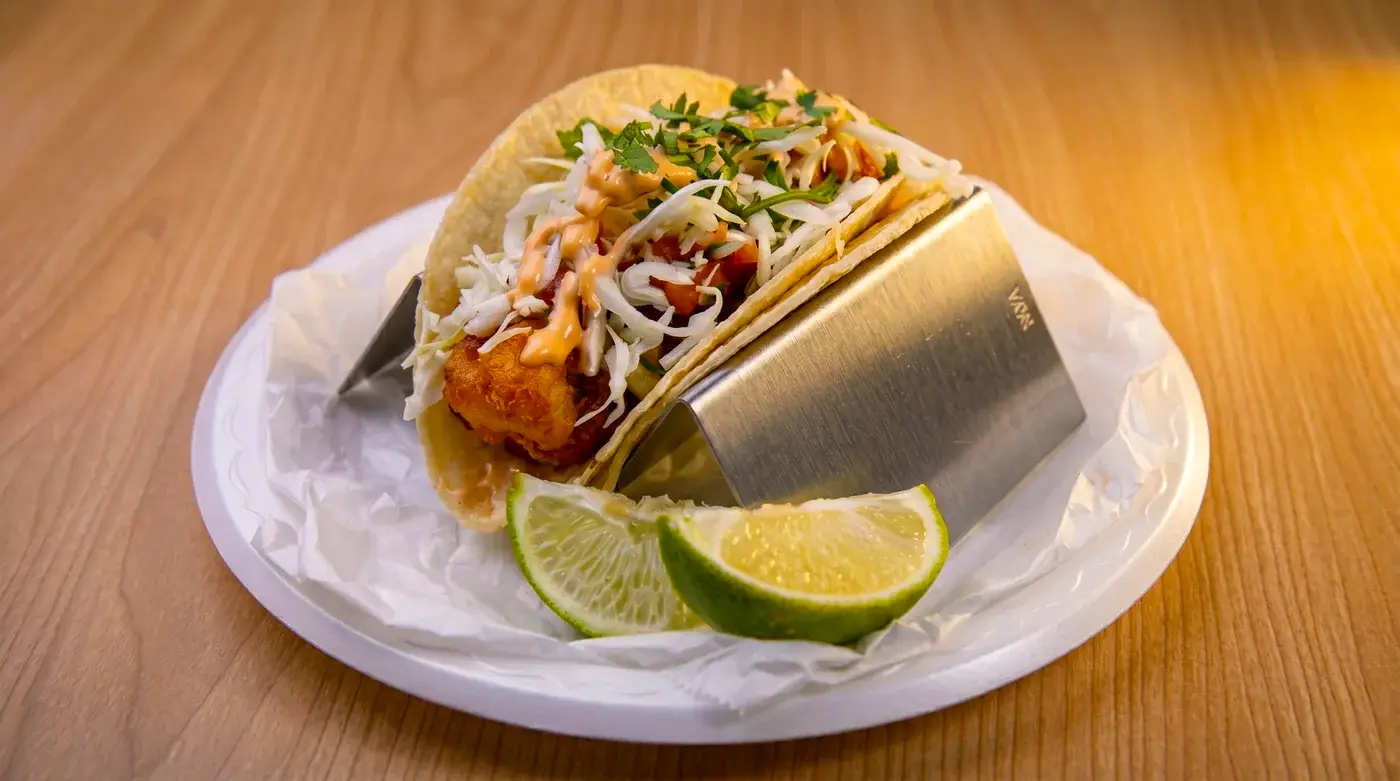
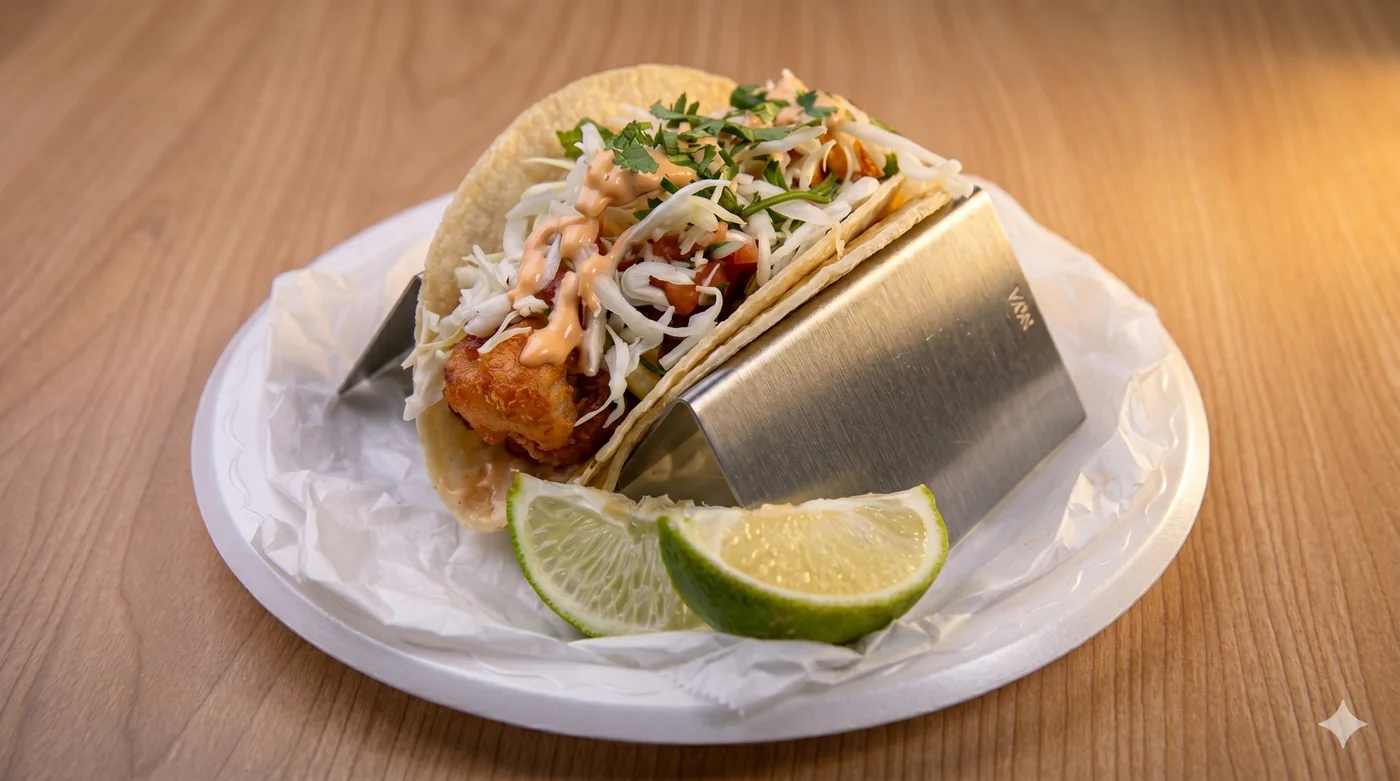
Vitor's Case Study Updates.

diff --git a/work/victors-mexican-food/index.html b/work/victors-mexican-food/index.html
@@ -5,20 +5,20 @@
 <meta charset="utf-8"/>
 <meta content="width=device-width, initial-scale=1" name="viewport"/>
 <title>Victor’s Mexican Food | BurkeMedia Case Study</title>
-<meta content="Website development, local SEO/AIO, Clover-connected ordering, crawlable menu structure, video, food photography and social media content." name="description"/>
+<meta content="Website development, local SEO/AIO, Clover-connected ordering, crawlable menu structure, YouTube video, food photography, website previews and social media content for Victor’s Mexican Food in Palm Desert." name="description"/>
 <meta content="index,follow,max-image-preview:large,max-video-preview:-1" name="robots"/>
 <link href="https://burkemedia.pro/work/victors-mexican-food/" rel="canonical"/>
 <meta content="website" property="og:type"/>
 <meta content="Victor’s Mexican Food | BurkeMedia Case Study" property="og:title"/>
-<meta content="Website development, local SEO/AIO, Clover-connected ordering, crawlable menu structure, video, food photography and social media content." property="og:description"/>
+<meta content="Website development, local SEO/AIO, Clover-connected ordering, crawlable menu structure, YouTube video, food photography, website previews and social media content for Victor’s Mexican Food in Palm Desert." property="og:description"/>
 <meta content="BurkeMedia Productions" property="og:site_name"/>
 <meta content="https://burkemedia.pro/work/victors-mexican-food/" property="og:url"/>
-<meta content="https://burkemedia.pro/assets/img/coverimg-1.jpg" property="og:image"/>
-<meta content="BurkeMedia Productions digital marketing in Palm Desert" property="og:image:alt"/>
+<meta content="https://burkemedia.pro/assets/img/work/victors-mexican-food/victors-mexican-food-palm-desert-storefront.webp" property="og:image"/>
+<meta content="Victor’s Mexican Food storefront in Palm Desert" property="og:image:alt"/>
 <meta content="summary_large_image" name="twitter:card"/>
 <meta content="Victor’s Mexican Food | BurkeMedia Case Study" name="twitter:title"/>
-<meta content="Website development, local SEO/AIO, Clover-connected ordering, crawlable menu structure, video, food photography and social media content." name="twitter:description"/>
-<meta content="https://burkemedia.pro/assets/img/coverimg-1.jpg" name="twitter:image"/>
+<meta content="Website development, local SEO/AIO, Clover-connected ordering, crawlable menu structure, YouTube video, food photography, website previews and social media content for Victor’s Mexican Food in Palm Desert." name="twitter:description"/>
+<meta content="https://burkemedia.pro/assets/img/work/victors-mexican-food/victors-mexican-food-palm-desert-storefront.webp" name="twitter:image"/>
 <link href="https://fonts.googleapis.com" rel="preconnect"/>
 <link crossorigin="" href="https://fonts.gstatic.com" rel="preconnect"/>
 <link href="https://fonts.googleapis.com/css2?family=Exo+2:wght@300;400;600;700;800&amp;family=Krona+One&amp;display=swap" rel="stylesheet"/>
@@ -36,7 +36,7 @@
       "name": "BurkeMedia Productions",
       "url": "https://burkemedia.pro/",
       "logo": "https://burkemedia.pro/assets/img/bmp-logo-horizontal-white-higher-res.png",
-      "image": "https://burkemedia.pro/assets/img/coverimg-1.jpg",
+      "image": "https://burkemedia.pro/assets/img/work/victors-mexican-food/victors-mexican-food-palm-desert-storefront.webp",
       "description": "BurkeMedia Productions provides web design, video production, photography, branding, SEO/AIO strategy, AI-assisted content, social media and business system integration for small businesses in Palm Desert and the Coachella Valley.",
       "telephone": "+1-760-660-1289",
       "email": "hello@burkemedia.pro",
@@ -123,8 +123,8 @@
       "@id": "https://burkemedia.pro/work/victors-mexican-food/#webpage",
       "url": "https://burkemedia.pro/work/victors-mexican-food/",
       "name": "Victor’s Mexican Food | BurkeMedia Case Study",
-      "description": "Website development, local SEO/AIO, Clover-connected ordering, crawlable menu structure, video, food photography and social media content.",
-      "image": "https://burkemedia.pro/assets/img/coverimg-1.jpg",
+      "description": "Website development, local SEO/AIO, Clover-connected ordering, crawlable menu structure, YouTube video, food photography, website previews and social media content for Victor’s Mexican Food in Palm Desert.",
+      "image": "https://burkemedia.pro/assets/img/work/victors-mexican-food/victors-mexican-food-palm-desert-storefront.webp",
       "isPartOf": {
         "@id": "https://burkemedia.pro/#website"
       },
@@ -163,14 +163,41 @@
         }
       ]
     },
+
+    {
+      "@type": "VideoObject",
+      "@id": "https://burkemedia.pro/work/victors-mexican-food/#promo-video",
+      "name": "Victor’s Mexican Food promotional video",
+      "description": "A promotional video produced for Victor’s Mexican Food to showcase the restaurant, food, team and customer experience in Palm Desert.",
+      "thumbnailUrl": "https://burkemedia.pro/assets/img/work/victors-mexican-food/victors-mexican-food-palm-desert-storefront.webp",
+      "embedUrl": "https://www.youtube.com/embed/FpwfG46yudc",
+      "url": "https://www.youtube.com/watch?v=FpwfG46yudc",
+      "publisher": {
+        "@id": "https://burkemedia.pro/#organization"
+      },
+      "inLanguage": "en-US"
+    },
+    {
+      "@type": "VideoObject",
+      "@id": "https://burkemedia.pro/work/victors-mexican-food/#documentary-video",
+      "name": "Victor’s Mexican Food documentary-style brand story",
+      "description": "A documentary-style brand story produced for Victor’s Mexican Food, highlighting the people, story and restaurant experience behind the Palm Desert business.",
+      "thumbnailUrl": "https://burkemedia.pro/assets/img/work/victors-mexican-food/victors-mexican-food-family-dining.webp",
+      "embedUrl": "https://www.youtube.com/embed/-_uGW9CERn8",
+      "url": "https://www.youtube.com/watch?v=-_uGW9CERn8",
+      "publisher": {
+        "@id": "https://burkemedia.pro/#organization"
+      },
+      "inLanguage": "en-US"
+    },
     {
       "@type": "CreativeWork",
       "@id": "https://burkemedia.pro/work/victors-mexican-food/#case-study",
       "name": "Victor’s Mexican Food",
       "url": "https://burkemedia.pro/work/victors-mexican-food/",
       "headline": "Victor’s Mexican Food",
-      "description": "Website development, local SEO/AIO, Clover-connected ordering, crawlable menu structure, video, food photography and social media content.",
-      "image": "https://burkemedia.pro/assets/img/coverimg-1.jpg",
+      "description": "Website development, local SEO/AIO, Clover-connected ordering, crawlable menu structure, YouTube video, food photography, website previews and social media content for Victor’s Mexican Food in Palm Desert.",
+      "image": "https://burkemedia.pro/assets/img/work/victors-mexican-food/victors-mexican-food-palm-desert-storefront.webp",
       "creator": {
         "@id": "https://burkemedia.pro/#organization"
       },
@@ -220,24 +247,74 @@
 </aside>
 </div>
 </section>
-<section class="section light-section">
+<section class="section light-section victors-brand-section">
 <div class="container">
-<div class="section-heading reveal"><p class="eyebrow">How the work came together</p><h2>A connected project, not a one-off task.</h2></div>
-<div class="card-grid"><article class="content-card reveal"><span class="tag">Project Detail</span><h3>Menu visibility for people and search</h3><p>The menu strategy organized categories, items, descriptions, prices and modifiers so customers and search platforms could better understand the restaurant’s offerings.</p></article><article class="content-card reveal"><span class="tag">Project Detail</span><h3>Ordering connected to operations</h3><p>The website was planned around Clover as the source of truth while improving checkout flow, order confirmations and customer syncing.</p></article><article class="content-card reveal"><span class="tag">Project Detail</span><h3>Months of usable content</h3><p>Food photography, promotional videos, reels and brand storytelling gave Victor’s a library of website and social media content instead of a single one-time post.</p></article></div>
+<div class="victors-brand-grid reveal">
+<div class="victors-brand-copy">
+<p class="eyebrow">Restaurant proof</p>
+<h2>Real photos, real food, real website work.</h2>
+<p>This case study now shows more of the assets BurkeMedia helped create and organize for Victor’s Mexican Food: a restaurant website experience, food photography, location imagery, social-ready visuals and video storytelling that supports local SEO/AIO.</p>
+<p>Using actual project visuals gives the page stronger proof for people, search engines and AI assistants because it connects the work to a real Palm Desert restaurant, real menu items and a real online ordering experience.</p>
+</div>
+<div class="victors-logo-card">
+<img src="/assets/img/work/victors-mexican-food/victors-mexican-food-logo.webp" alt="Victor’s Mexican Food logo" loading="lazy" width="1400" height="1350"/>
+<p>Logo included for project context and client recognition.</p>
+</div>
+</div>
 </div>
 </section>
-
-<section class="section page-section social-proof-section">
+<section class="section page-section media-showcase-section">
+<div class="container">
+<div class="section-heading reveal"><p class="eyebrow">Video production</p><h2>Promo video and documentary-style storytelling for Victor’s Mexican Food.</h2><p>These YouTube embeds show two different uses of video: a faster promotional piece for awareness and a longer story-driven piece that helps customers connect with the people behind the restaurant.</p></div>
+<div class="video-embed-grid">
+<article class="media-card reveal">
+<div class="responsive-embed"><iframe src="https://www.youtube-nocookie.com/embed/FpwfG46yudc" title="Victor’s Mexican Food promotional video produced by BurkeMedia Productions" loading="lazy" allow="accelerometer; autoplay; clipboard-write; encrypted-media; gyroscope; picture-in-picture; web-share" referrerpolicy="strict-origin-when-cross-origin" allowfullscreen></iframe></div>
+<div class="media-card-copy"><span class="tag">Promo Video</span><h3>Short-form restaurant promotion</h3><p>A direct, appetizing video asset built to introduce the restaurant, show food and atmosphere, and support web, Google Business and social media content.</p></div>
+</article>
+<article class="media-card reveal">
+<div class="responsive-embed"><iframe src="https://www.youtube-nocookie.com/embed/-_uGW9CERn8" title="Victor’s Mexican Food documentary-style brand story produced by BurkeMedia Productions" loading="lazy" allow="accelerometer; autoplay; clipboard-write; encrypted-media; gyroscope; picture-in-picture; web-share" referrerpolicy="strict-origin-when-cross-origin" allowfullscreen></iframe></div>
+<div class="media-card-copy"><span class="tag">Documentary Style</span><h3>Brand story and local trust</h3><p>A deeper story-driven piece that helps viewers understand the restaurant, the people and the experience behind Victor’s Mexican Food.</p></div>
+</article>
+</div>
+</div>
+</section>
+<section class="section light-section media-showcase-section">
+<div class="container">
+<div class="section-heading reveal"><p class="eyebrow">Website experience</p><h2>Website previews built around online ordering and menu discovery.</h2><p>These website screen recordings help show the practical side of the project: desktop and mobile paths that make the restaurant easier to browse, understand and order from.</p></div>
+<div class="website-preview-grid">
+<article class="media-card website-preview-card reveal">
+<video controls muted playsinline preload="metadata" poster="/assets/img/work/victors-mexican-food/victors-mexican-food-website-homepage.webp"><source src="/assets/video/work/victors-mexican-food/victors-mexican-food-website-desktop.mp4" type="video/mp4"/></video>
+<div class="media-card-copy"><span class="tag">Desktop Website</span><h3>Restaurant homepage and ordering path</h3><p>A desktop preview of the refreshed website experience, built to support menu visibility, ordering and local conversion.</p></div>
+</article>
+<article class="media-card website-preview-card is-phone reveal">
+<video controls muted playsinline preload="metadata" poster="/assets/img/work/victors-mexican-food/victors-mexican-food-website-homepage.webp"><source src="/assets/video/work/victors-mexican-food/victors-mexican-food-website-mobile.mp4" type="video/mp4"/></video>
+<div class="media-card-copy"><span class="tag">Mobile Website</span><h3>Mobile-first restaurant browsing</h3><p>A phone-friendly preview because many restaurant searches, menu visits and online orders begin on mobile.</p></div>
+</article>
+</div>
+</div>
+</section>
+<section class="section page-section media-showcase-section">
+<div class="container">
+<div class="section-heading reveal"><p class="eyebrow">Photography and local visuals</p><h2>Food, family, storefront and atmosphere content for the website and marketing.</h2><p>These images give the case study stronger visual proof while also supporting restaurant website design, food photography, local SEO and Google Business content.</p></div>
+<div class="photo-gallery-grid">
+<figure class="gallery-item wide reveal"><img src="/assets/img/work/victors-mexican-food/victors-mexican-food-palm-desert-storefront.webp" alt="Victor’s Mexican Food storefront in Palm Desert with neighboring businesses" loading="lazy" width="1800" height="1004"/><figcaption>Storefront and local place signal for Palm Desert search.</figcaption></figure>
+<figure class="gallery-item reveal"><img src="/assets/img/work/victors-mexican-food/victors-mexican-food-family-dining.webp" alt="Family enjoying Mexican food inside Victor’s Mexican Food restaurant" loading="lazy" width="1800" height="1012"/><figcaption>Restaurant atmosphere and family dining content.</figcaption></figure>
+<figure class="gallery-item reveal"><img src="/assets/img/work/victors-mexican-food/victors-mexican-food-wet-burrito.webp" alt="Wet burrito plate with red sauce and melted cheese at Victor’s Mexican Food" loading="lazy" width="1400" height="787"/><figcaption>Food photography for menu, website and social posts.</figcaption></figure>
+<figure class="gallery-item reveal"><img src="/assets/img/work/victors-mexican-food/victors-mexican-food-fish-taco.webp" alt="Fish taco with cabbage, sauce, cilantro and lime photographed for Victor’s Mexican Food" loading="lazy" width="1400" height="781"/><figcaption>Menu item photography for appetizing local content.</figcaption></figure>
+<figure class="gallery-item wide reveal"><img src="/assets/img/work/victors-mexican-food/victors-mexican-food-website-homepage.webp" alt="Victor’s Mexican Food website homepage preview showing online ordering and menu content" loading="lazy" width="1800" height="1012"/><figcaption>Website screenshot showing the digital experience behind the restaurant marketing.</figcaption></figure>
+</div>
+</div>
+</section>
+<section class="section light-section social-proof-section">
 <div class="container social-proof-layout">
 <div class="social-proof-copy reveal">
 <p class="eyebrow">Social Media Content</p>
-<h2>Months worth of restaurant video content from one focused content push.</h2>
+<h2>Months worth of video content from one focused restaurant content push.</h2>
 <p>For Victor’s Mexican Food, the video work was not only about one polished promo. BurkeMedia captured and edited content that could keep the restaurant active across Instagram, Facebook, Google Business and the website for months.</p>
-<p>That meant short-form reels, food highlights, owner and team storytelling, ordering reminders, restaurant atmosphere clips and practical posts that could keep showing real food, real people and real reasons to visit or order online.</p>
-<ul class="bullet-list">
-<li>Short-form video content for social media reels</li>
-<li>Food and restaurant clips that could be reused across platforms</li>
-<li>Video assets that supported the website, Google Business and local SEO/AIO</li>
+<ul class="check-list">
+<li>Short-form reels for ongoing social media posts</li>
+<li>Food and restaurant clips that could support Google Business updates</li>
+<li>Reusable video moments for the website and future campaigns</li>
 <li>A stronger content library instead of one isolated shoot</li>
 </ul>
 </div>
@@ -246,6 +323,12 @@
 <a href="https://www.instagram.com/reel/DZRBjK2iBNV/?utm_source=ig_embed&amp;utm_campaign=loading" target="_blank" rel="noopener">View this Victor’s Mexican Food reel on Instagram</a>
 </blockquote>
 </div>
+</div>
+</section>
+<section class="section light-section">
+<div class="container">
+<div class="section-heading reveal"><p class="eyebrow">How the work came together</p><h2>A connected project, not a one-off task.</h2></div>
+<div class="card-grid"><article class="content-card reveal"><span class="tag">Project Detail</span><h3>Menu visibility for people and search</h3><p>The menu strategy organized categories, items, descriptions, prices and modifiers so customers and search platforms could better understand the restaurant’s offerings.</p></article><article class="content-card reveal"><span class="tag">Project Detail</span><h3>Ordering connected to operations</h3><p>The website was planned around Clover as the source of truth while improving checkout flow, order confirmations and customer syncing.</p></article><article class="content-card reveal"><span class="tag">Project Detail</span><h3>Content that feels personal and appetizing</h3><p>Food photography, promotional videos, reels and brand storytelling helped show the food, people and story behind Victor’s.</p></article></div>
 </div>
 </section>
 <section class="section page-section">

diff --git a/assets/css/styles.css b/assets/css/styles.css
@@ -3241,6 +3241,145 @@ textarea { resize: vertical; }
   color: var(--color-warm);
 }
 
+/* Victor's Mexican Food case study media additions */
+.victors-brand-grid {
+  display: grid;
+  grid-template-columns: minmax(0, 1.15fr) minmax(280px, .85fr);
+  gap: 28px;
+  align-items: center;
+}
+
+.victors-brand-copy {
+  max-width: 760px;
+}
+
+.victors-logo-card,
+.media-card,
+.gallery-item {
+  background: #fff;
+  border: 1px solid rgba(8,23,28,.12);
+  border-radius: var(--radius);
+  box-shadow: 0 18px 45px rgba(3,19,24,.08);
+  overflow: hidden;
+}
+
+.victors-logo-card {
+  padding: 28px;
+  text-align: center;
+}
+
+.victors-logo-card img {
+  display: block;
+  width: min(100%, 420px);
+  height: auto;
+  margin: 0 auto 18px;
+}
+
+.victors-logo-card p,
+.gallery-item figcaption {
+  margin: 0;
+  color: #4a5a62;
+  font-size: 15px;
+}
+
+.media-showcase-section .section-heading p {
+  max-width: 900px;
+  margin-inline: auto;
+}
+
+.video-embed-grid,
+.website-preview-grid {
+  display: grid;
+  grid-template-columns: repeat(2, minmax(0, 1fr));
+  gap: 22px;
+}
+
+.responsive-embed {
+  position: relative;
+  aspect-ratio: 16 / 9;
+  background: #071013;
+}
+
+.responsive-embed iframe {
+  position: absolute;
+  inset: 0;
+  width: 100%;
+  height: 100%;
+  border: 0;
+}
+
+.media-card {
+  display: flex;
+  flex-direction: column;
+  color: #122027;
+}
+
+.media-card video {
+  display: block;
+  width: 100%;
+  height: auto;
+  background: #071013;
+}
+
+.media-card-copy {
+  padding: 24px;
+}
+
+.media-card-copy .tag {
+  color: var(--color-primary-dark);
+  font-size: 13px;
+  text-transform: uppercase;
+  letter-spacing: .16em;
+  font-weight: 900;
+}
+
+.media-card-copy p {
+  color: #4a5a62;
+}
+
+.website-preview-card.is-phone {
+  max-width: 420px;
+  margin-inline: auto;
+}
+
+.photo-gallery-grid {
+  display: grid;
+  grid-template-columns: repeat(2, minmax(0, 1fr));
+  gap: 22px;
+}
+
+.gallery-item {
+  margin: 0;
+  color: #122027;
+}
+
+.gallery-item.wide {
+  grid-column: 1 / -1;
+}
+
+.gallery-item img {
+  display: block;
+  width: 100%;
+  height: auto;
+}
+
+.gallery-item figcaption {
+  padding: 16px 18px 18px;
+}
+
+@media (max-width: 900px) {
+  .victors-brand-grid,
+  .video-embed-grid,
+  .website-preview-grid,
+  .photo-gallery-grid {
+    grid-template-columns: 1fr;
+  }
+
+  .website-preview-card.is-phone {
+    max-width: none;
+  }
+}
+
 
 /* Victor's Mexican Food social media case study section */
 .social-proof-layout {
